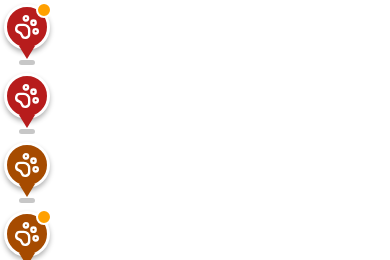
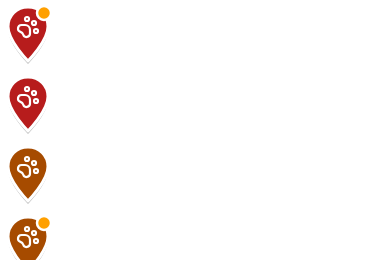
style(design): TD-134 Mapa: el pin es una sola silueta de gota con borde, sombra e insignia
El pin se dibuja con react-native-svg como un único trazado cerrado con relleno de gravedad, borde blanco continuo, sombra desplazada de la misma forma, huella centrada e insignia ámbar dentro del dibujo; se eliminan el círculo, el triángulo y la píldora de sombra apilados.

Changed region(s): [[0.0, 0.0, 0.1538, 0.5231], [0.0, 0.5538, 0.1538, 1.0]]

diff --git a/components/PublicMapView.js b/components/PublicMapView.js
@@ -7,11 +7,29 @@ import { useCallback, useEffect, useRef } from 'react';
 import { StyleSheet, Text, View } from 'react-native';
 import { useTranslation } from 'react-i18next';
 import { Camera, Map, ViewAnnotation } from '@maplibre/maplibre-react-native';
+import Svg, { Circle, Path } from 'react-native-svg';
 
 import { INCIDENT_TYPES, clusterRadiusPx, severityLevel } from '../models/publicMap.js';
 import { colors, fontFamily } from '../theme/index.js';
 import { Icon } from './ui/index.js';
 import { getMapStyleUrl } from '../services/mapConfig.js';
+
+/** Teardrop outline of the pin (one closed shape, so the white outline runs around the whole silhouette). */
+const PIN_PATH = 'M24 3 C12.5 3 4 11.6 4 22.6 C4 37 24 57 24 57 C24 57 44 37 44 22.6 C44 11.6 35.5 3 24 3 Z';
+
+/** A single-silhouette map pin: colored drop with a white outline and offset shadow, paw inside, amber badge when flagged. */
+function PinMarker({ color, flagged }) {
+  return (
+    <View style={styles.pin}>
+      <Svg width={48} height={62} viewBox="0 0 48 62" accessible={false} aria-hidden>
+        <Path d={PIN_PATH} fill="rgba(0,0,0,0.28)" transform="translate(0 3)" />
+        <Path d={PIN_PATH} fill={color} stroke="#ffffff" strokeWidth={3} strokeLinejoin="round" />
+        {flagged ? <Circle cx={40} cy={9} r={7} fill="#ffa000" stroke="#ffffff" strokeWidth={2.5} /> : null}
+      </Svg>
+      <View pointerEvents="none" style={styles.pinPaw}><Icon name="dog" size={24} color={colors.onPrimary} strokeWidth={2.2} /></View>
+    </View>
+  );
+}
 
 // MapLibre React Native v11: Map + Camera + ViewAnnotation.
 // Renders exactly what the server returned; no client-side clustering.
@@ -111,12 +129,7 @@ export default function PublicMapView({
               accessibilityLabel={t('map.pinItem', { type: t(`reportForm.incidents.${INCIDENT_TYPES.includes(report.incident_type) ? report.incident_type : 'otro'}`) })}
               style={styles.pinWrap}
             >
-              <View style={[styles.pinHead, { backgroundColor: colors.severity[severityLevel(report.incident_type)] }]}>
-                <Icon name="dog" size={26} color={colors.onPrimary} strokeWidth={2.2} />
-                {report.has_flags ? <View style={styles.pinFlag} /> : null}
-              </View>
-              <View style={[styles.pinTip, { borderTopColor: colors.severity[severityLevel(report.incident_type)] }]} />
-              <View style={styles.pinShadow} />
+              <PinMarker color={colors.severity[severityLevel(report.incident_type)]} flagged={Boolean(report.has_flags)} />
             </View>
           </ViewAnnotation>
         );
@@ -131,8 +144,6 @@ const styles = StyleSheet.create({
   cluster: { alignItems: 'center', justifyContent: 'center', borderWidth: 3, borderColor: '#ffffff', shadowColor: '#000', shadowOpacity: 0.28, shadowRadius: 5, shadowOffset: { width: 0, height: 2 }, elevation: 5 },
   clusterText: { color: '#ffffff', fontFamily: fontFamily.number, fontVariant: ['tabular-nums'], fontSize: 15 },
   pinWrap: { alignItems: 'center' },
-  pinHead: { width: 46, height: 46, borderRadius: 23, borderWidth: 3.5, borderColor: '#ffffff', alignItems: 'center', justifyContent: 'center', shadowColor: '#000', shadowOpacity: 0.3, shadowRadius: 5, shadowOffset: { width: 0, height: 3 }, elevation: 6 },
-  pinFlag: { position: 'absolute', top: -5, right: -5, width: 16, height: 16, borderRadius: 8, backgroundColor: '#ffa000', borderWidth: 2.5, borderColor: '#ffffff' },
-  pinTip: { width: 0, height: 0, marginTop: -4, borderLeftWidth: 8, borderRightWidth: 8, borderTopWidth: 13, borderLeftColor: 'transparent', borderRightColor: 'transparent' },
-  pinShadow: { width: 16, height: 5, marginTop: 1, borderRadius: 8, backgroundColor: 'rgba(0,0,0,0.22)' },
+  pin: { width: 48, height: 62 },
+  pinPaw: { position: 'absolute', left: 12, top: 11 },
 });
